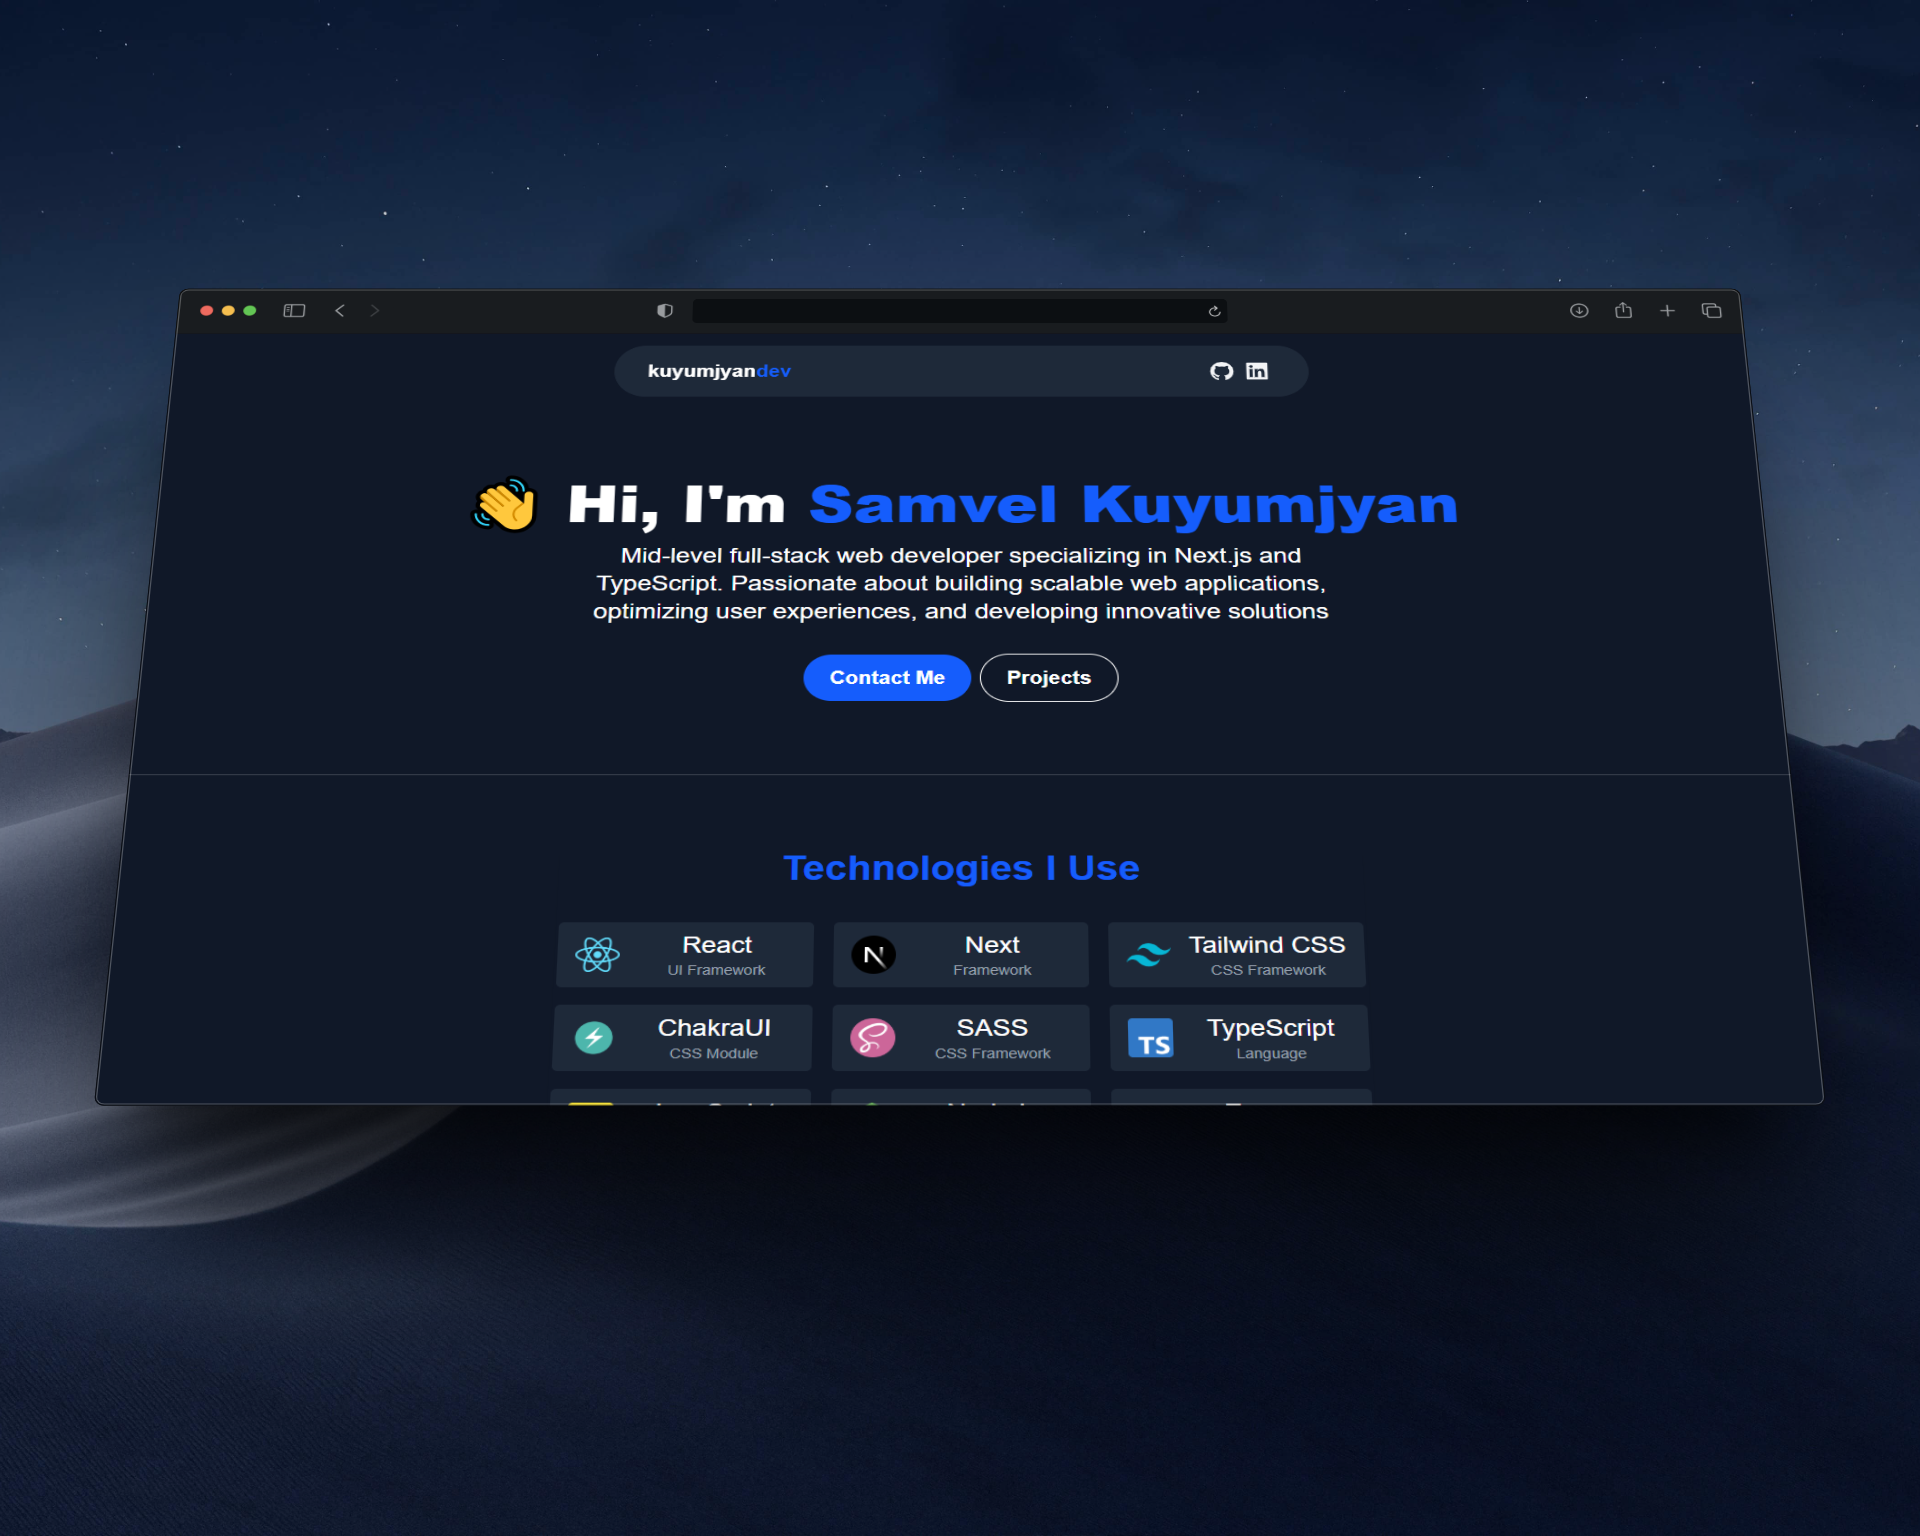
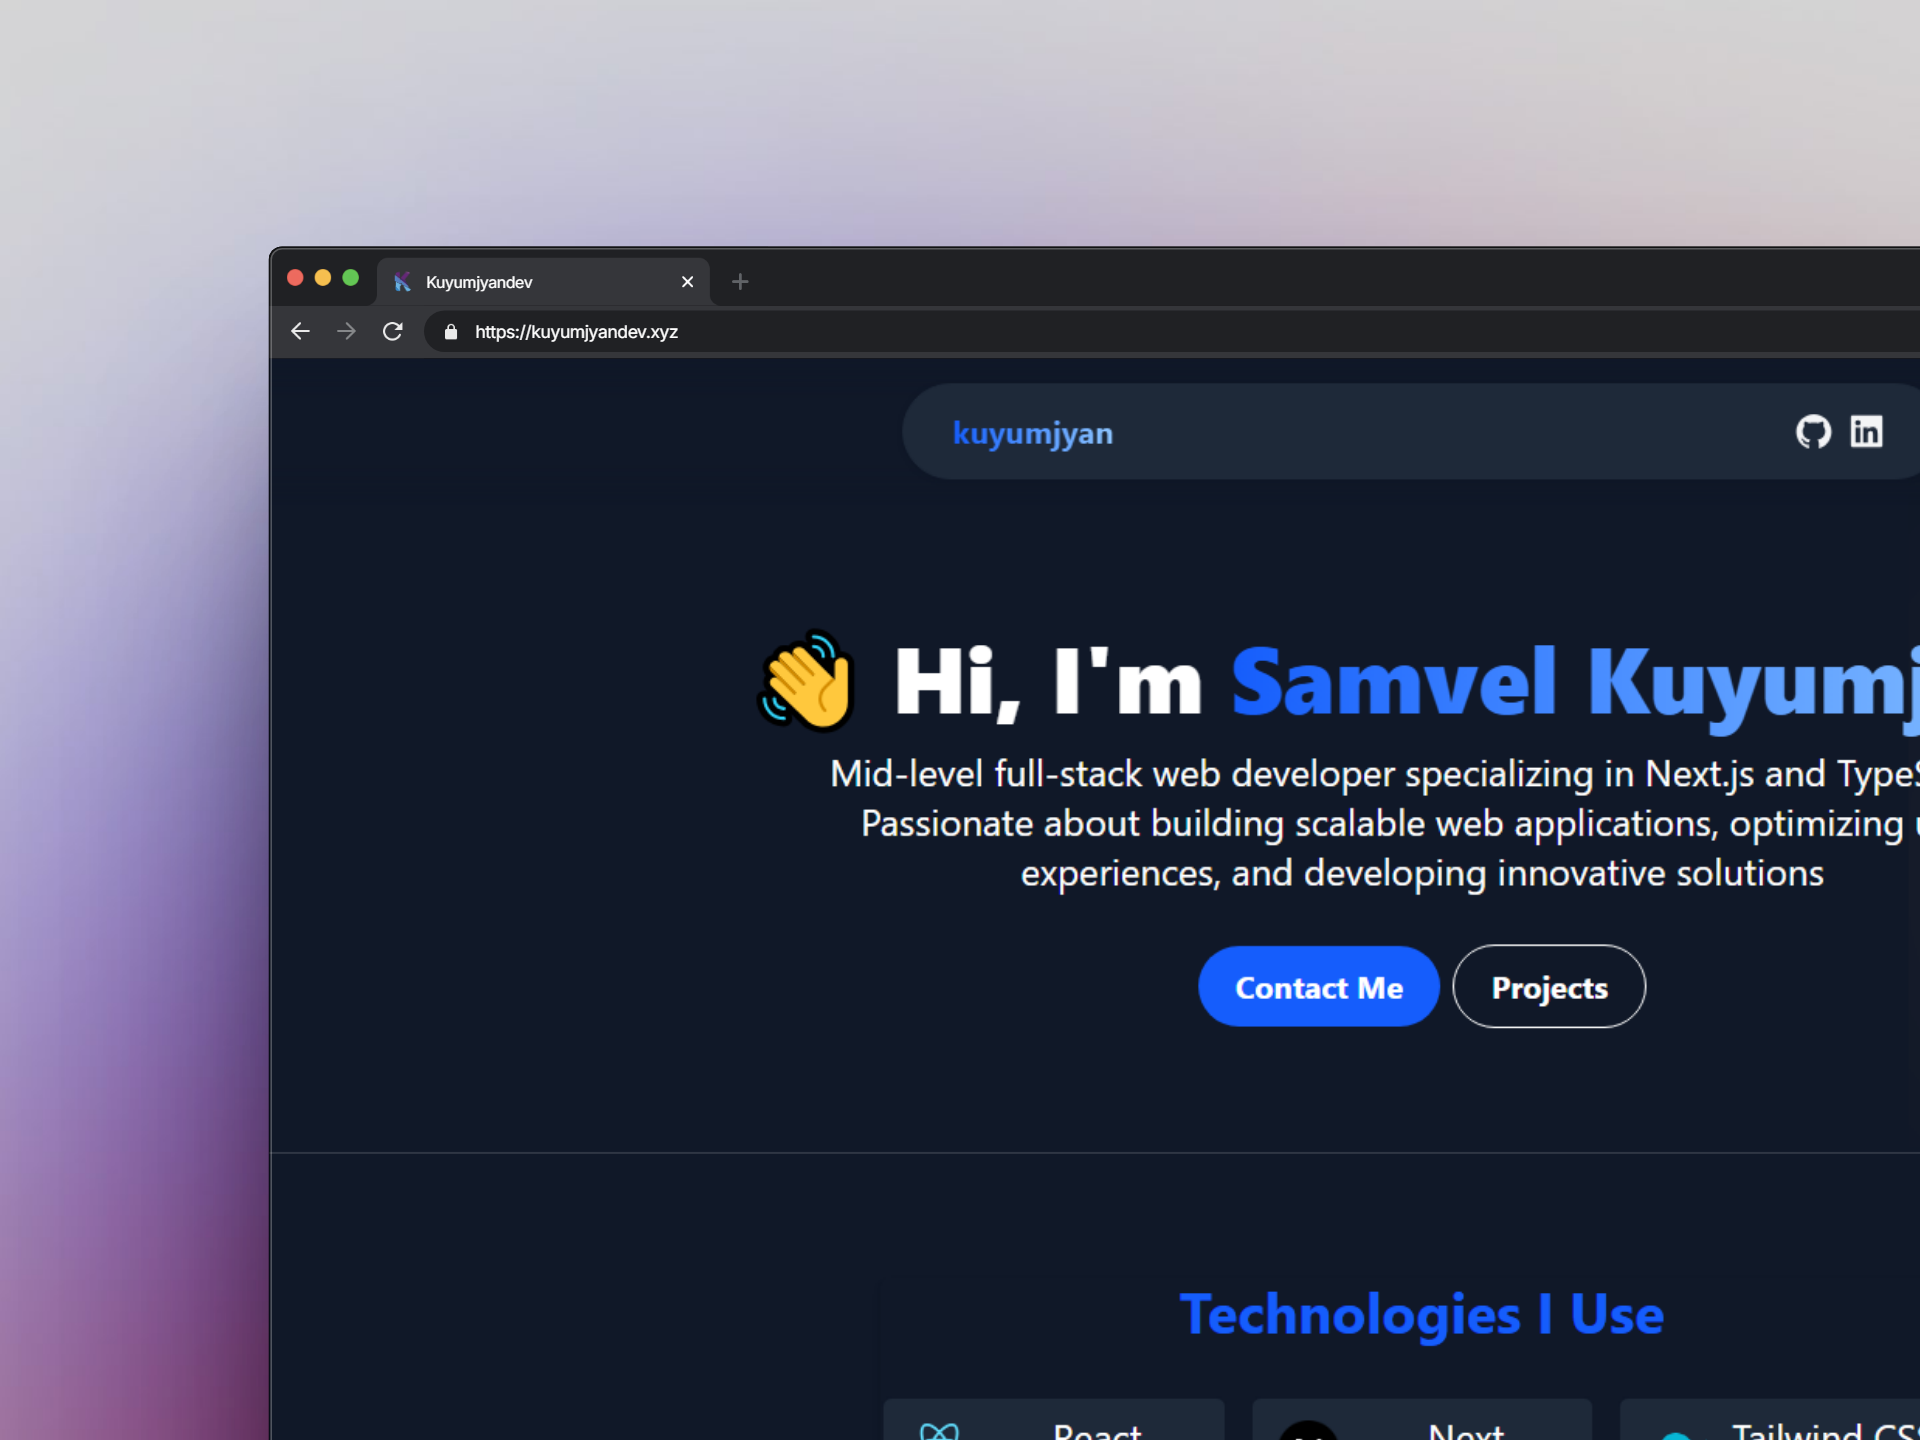
change project previews

diff --git a/src/components/ui/Footer.tsx b/src/components/ui/Footer.tsx
@@ -13,7 +13,7 @@ const Footer: React.FC = () => {
                     &copy; 2025 | Made by
                     <span className='bg-gradient-to-r from-blue-600 to-blue-300 bg-clip-text text-transparent'> Kuyumjyan</span>
                 </p>
-                <p className='text-sm'>Last built at {sugar.Date.format(new Date())}</p>
+                <p className='text-sm'>Last built at {sugar.Date.format(new Date(__BUILD_TIME__))}</p>
                 <div className='flex row gap-2 content-center justify-center mt-2'>
                     <a href={socials.github} target='_blank' rel='noreferrer' className='transform hover:text-violet-200'>
                         <AiFillGithub size={24} />

diff --git a/vite.config.js b/vite.config.js
@@ -5,4 +5,7 @@ import tailwindcss from '@tailwindcss/vite'
 // https://vite.dev/config/
 export default defineConfig({
   plugins: [react(), tailwindcss()],
+  define: {
+    __BUILD_TIME__: JSON.stringify(new Date().toISOString()),
+  },
 })
